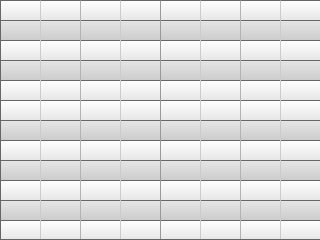
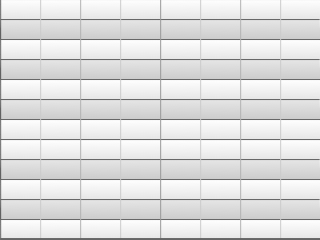
Fixed scroll background

diff --git a/index.html b/index.html
@@ -18,7 +18,7 @@
         <div id='root'>
             <div class='box' id='box1'></div>
             <div class='box' id='box2'>
-                <div class='box' id='box4'>There's a box 4 here. Use for piano graphic? (No, since this box 4 slides up top and turns green at narrower page widths.</div>
+                <div class='box' id='box4'></div>
                 <div class='box' id='box5'>
                 	<div class="scroll-area">
 						<div class="scroll-content">
